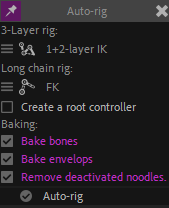
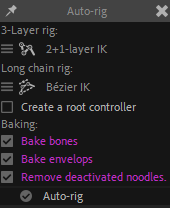
Writing doc...

diff --git a/src-docs/docs/guide/bones/autorig/spine.md b/src-docs/docs/guide/bones/autorig/spine.md
@@ -1,6 +1,6 @@
 # ![](../../../img/duik/icons/spine.svg){style="width:1em;"} Spines
 
-![](../../../img/illustration/spine_00000.png)
+![](../../../img/illustration/spine.png)
 
 In Duik, what's called spine includes the actual spine, and the hips and head.
 
@@ -10,17 +10,15 @@ For all types of animals, spines are rigged the same way, except for fishes, for
 
 The controllers created when rigging spines may differ according to the way the character is designed and the available joints. All possible controllers are:
 
-- **Body**: This controller moves the whole body, including the head. It's the one to be animated up and down in a walk cycle for example, but except for this specific case, it's more subtle to animate the other controllers of the spine. This controller is always available for all kind of spines.
-- **Hips**: This controller moves only the hips, and thus bends the spine. It's especially useful to animate its rotation.
-- **Spine**: This controller can only be rotated. It rotates the whole spine up to the torso, in a very natural way if the spine is made of multiple bones.
-- **Spine Curve**: This controller can be moved to adjust the curvature of the spine if it is made of multiple bones.
-- **Torso**: This controller controls the torso. Although it can be moved (using IK), it's easier to animate the rotation of the spine and just rotate the torso too instead of animating its position.
-- **Neck and Shoulders**: The position of this controller moves the shoulders (and thus rotates the torso with the IK), but it's usually easier to animate the rotation of the torso instead. The rotation of this controller can be used to animate the neck.
-- **Head**: This controller's rotation can be animated to control the head. Again, although its position can be animated, it's usually easier to animate the rotation of the neck.
+- ![](../../../img/duik/icons/body.svg){style="width:2em;"} **Body**: This controller moves the whole body, including the head. It's the one to be animated up and down in a walk cycle for example, but except for this specific case, it's more subtle to animate the other controllers of the spine. This controller is always available for all kind of spines.
+- ![](../../../img/duik/icons/hips.svg){style="width:2em;"} **Hips**: This controller moves only the hips, and thus bends the spine. It's especially useful to animate its rotation.
+- ![](../../../img/duik/icons/vertebrae.svg){style="width:2em;"} **Spine**: This controller can only be rotated. It rotates the whole spine up to the torso, in a very natural way if the spine is made of multiple bones.
+- ![](../../../img/duik/icons/move.svg){style="width:2em;"} **Spine Curve**: This controller can be moved to adjust the curvature of the spine if it is made of multiple bones.
+- ![](../../../img/duik/icons/torso.svg){style="width:2em;"} **Torso**: This controller controls the torso. Although it can be moved (using IK), it's easier to animate the rotation of the spine and just rotate the torso too instead of animating its position.
+- ![](../../../img/duik/icons/shoulders.svg){style="width:2em;"} **Neck and Shoulders**: The position of this controller moves the shoulders (and thus rotates the torso with the IK), but it's usually easier to animate the rotation of the torso instead. The rotation of this controller can be used to animate the neck.
+- ![](../../../img/duik/icons/head.svg){style="width:2em;"} **Head**: This controller's rotation can be animated to control the head. Again, although its position can be animated, it's usually easier to animate the rotation of the neck.
 
 As usual, it's much easier to animate the rotation of the available controllers (FK) than their position (IK), even if for beginners animating the position might seem more intuitive.
-
-**TODO** add the controller icons in the list above
 
 !!! tip
     When rigging insects, it's better to rig the abdomen as a tail, and use a simple spine rigging for just the thorax and the head; that makes more sense in terms of animation.

diff --git a/src-docs/docs/guide/bones/autorig/leg.md b/src-docs/docs/guide/bones/autorig/leg.md
@@ -2,9 +2,12 @@
 
 ![](../../../img/duik/bones/leg_armatures.png)
 
-For both tetrapods and arthropods (i.e. all legged animals), the rig for arms, front legs and back legs is similar; the only difference is that for tetrapods, there may be a shoulder bone at the root of the limb, and of course the side of the elbow on the front leg and the knee on the back leg are reversed.
+![](../../../img/illustration/armslegs.png)
 
-For all these legs, Duik creates a control at the end (on the foot or hand), and depending on the bones available in the armature (thus depending on how you've designed the limb)[^1], some controls for specific joints of the limb are available in the effects of the controller layer.
+
+For both [tetrapods](https://en.wikipedia.org/wiki/Tetrapod)[^1] and [arthropods](https://en.wikipedia.org/wiki/Arthropod)[^2] (i.e. all legged animals), the rig for arms, front legs and back legs is similar; the only difference is that for tetrapods, there may be a shoulder bone at the root of the limb, and of course the side of the elbow on the front leg and the knee on the back leg are reversed.
+
+For all these legs, Duik creates a control at the end (on the foot or hand), and depending on the bones available in the armature (thus depending on how you've designed the limb)[^3], some controls for specific joints of the limb are available in the effects of the controller layer.
 
 ![](../../../img/duik/bones/front_legs.png)  
 *Front legs*
@@ -141,5 +144,8 @@ Use the *Position* value to manually adjust or animate the position of the shoul
 
 The arthropod rig, in the current version of Duik, is actually similar to the ungulate rig, and has the same controls and effects. Only the initial locations of the joints and length ratios of the different parts of the limbs differ.
 
-[^1]: *cf.* [*Bones / Create bones*](../create-bones.md)
+[^1]: [***Tetrapods***](https://en.wikipedia.org/wiki/Tetrapod) are four-limbed vertebrate animals constituting the superclass Tetrapoda. It includes amphibians, reptiles, dinosaurs, birds, mammals and other extinct classes.
 
+[^2]: [***Arthropods***](https://en.wikipedia.org/wiki/Arthropod) are invertebrates with segmented bodies and jointed limbs. It includes arachnids (spiders, scorpions, ticks, mites...), myriapods (millipedes...), crustaceans (shrimps, crabs, lobsters...), and hexapods (insects).
+
+[^3]: *cf.* [*Bones / Create bones*](../create-bones.md)

diff --git a/src-docs/docs/guide/bones/autorig/tail.md b/src-docs/docs/guide/bones/autorig/tail.md
@@ -1,3 +1,27 @@
 # ![](../../../img/duik/icons/tail.svg){style="width:1em;"} ![](../../../img/duik/icons/hair_strand.svg){style="width:1em;"} Tails and hair
 
-Please come back later, or [make a donation](http://donate.rxlab.info) to help us work better and faster.
+![](../../../img/illustration/tail_00000.png)
+
+![](../../../img/illustration/tail_bones_00000.png)
+
+In Duik, tails, hair, and anything hanged on a character like a scarf or cloth can be rigged using a tail or hair armature.
+
+The only difference between hair and tail rigs is that a hair rig doesn't inherit the rotation from the limb it's attached to; that helps keeping the hair (or cloth, or scarf...) hanging vertically even if the head or body rotates.
+
+![](../../../img/duik/bones/tails_fk_00000.png)  
+*A tail rigged using FK controls*
+
+By default, hair and tails are rigged using [FK controls](../../constraints/kinematics.md); that means they're controlled by a single controller at the root of the limb, which can be animated in rotation, with a lot of options in the effects of the controller[^1].
+
+Although most of the time it's muc easier to animate these limbs with FK, you may need IK instead in very specific cases (e.g. when the dog's tail gets caught in the door. Ouch!). In this case, you can switch the *Long Chain rig* option in the settings of the auto-rig[^2].
+
+![](../../../img/duik/bones/autorig_options.png)
+
+This way the tail can be rigged using *Bézier IK* or *Bézier FK*. In this case, three controllers are added: the main controller at the tip of the tail to be animated in position, and two other controllers to have more control on the curvature of the tail[^1].
+
+![](../../../img/duik/bones/tails_ik_00000.png)  
+*A tail rigged using Bézier IK controls*
+
+[^1]: Read the [*Constraints / Kinematics*](../../constraints/kinematics.md) section for more details about IK and FK controls.
+
+[^2]: Read the [*Bones and Auto-Rig / Autorig / Introduction*](index.md#auto-rig-options) section for more information about the options of the Auto-rig.
